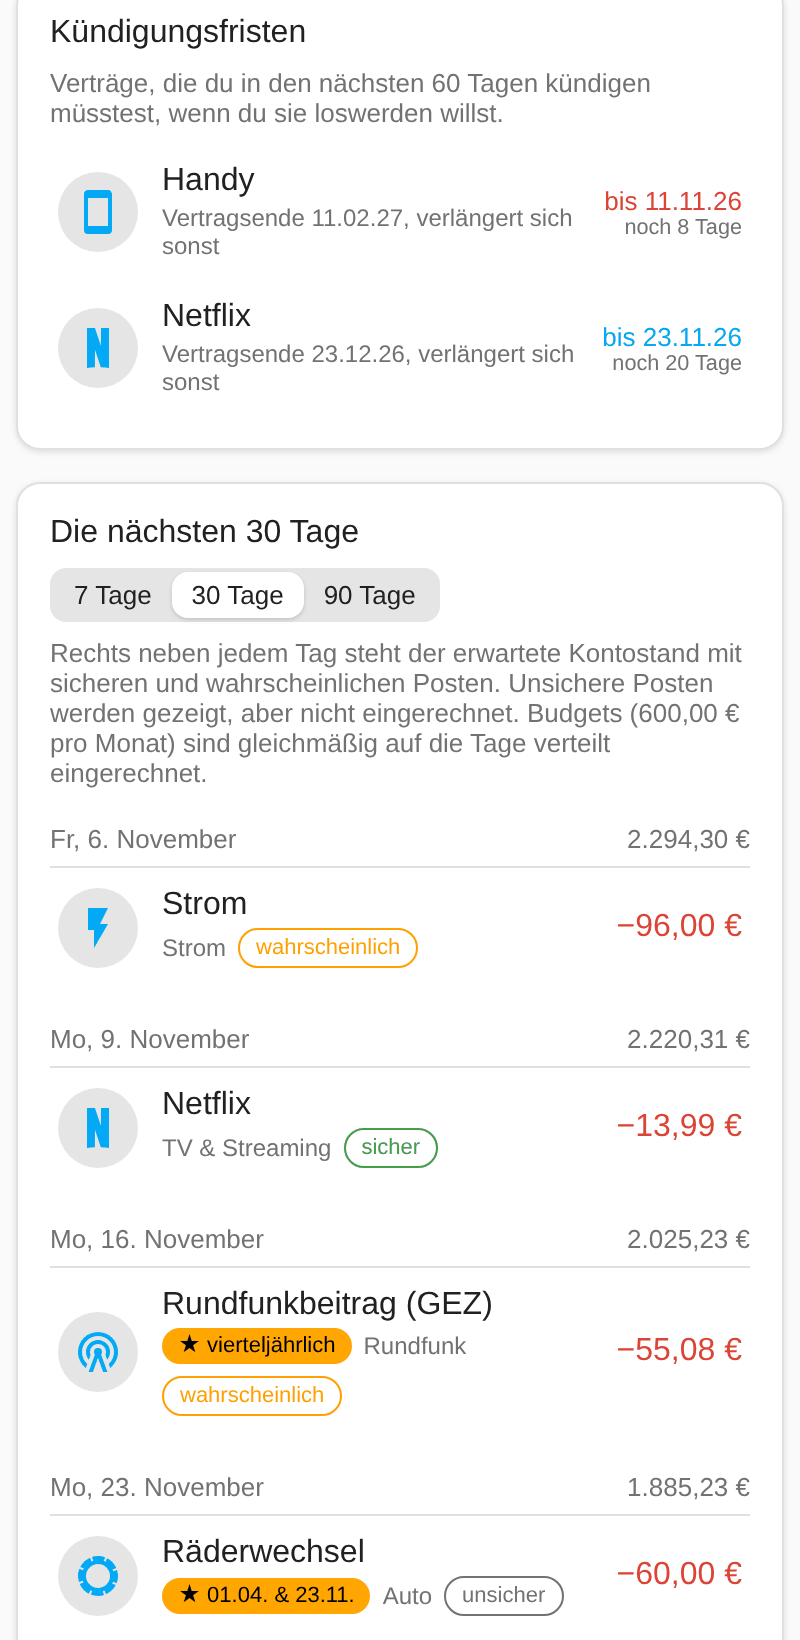
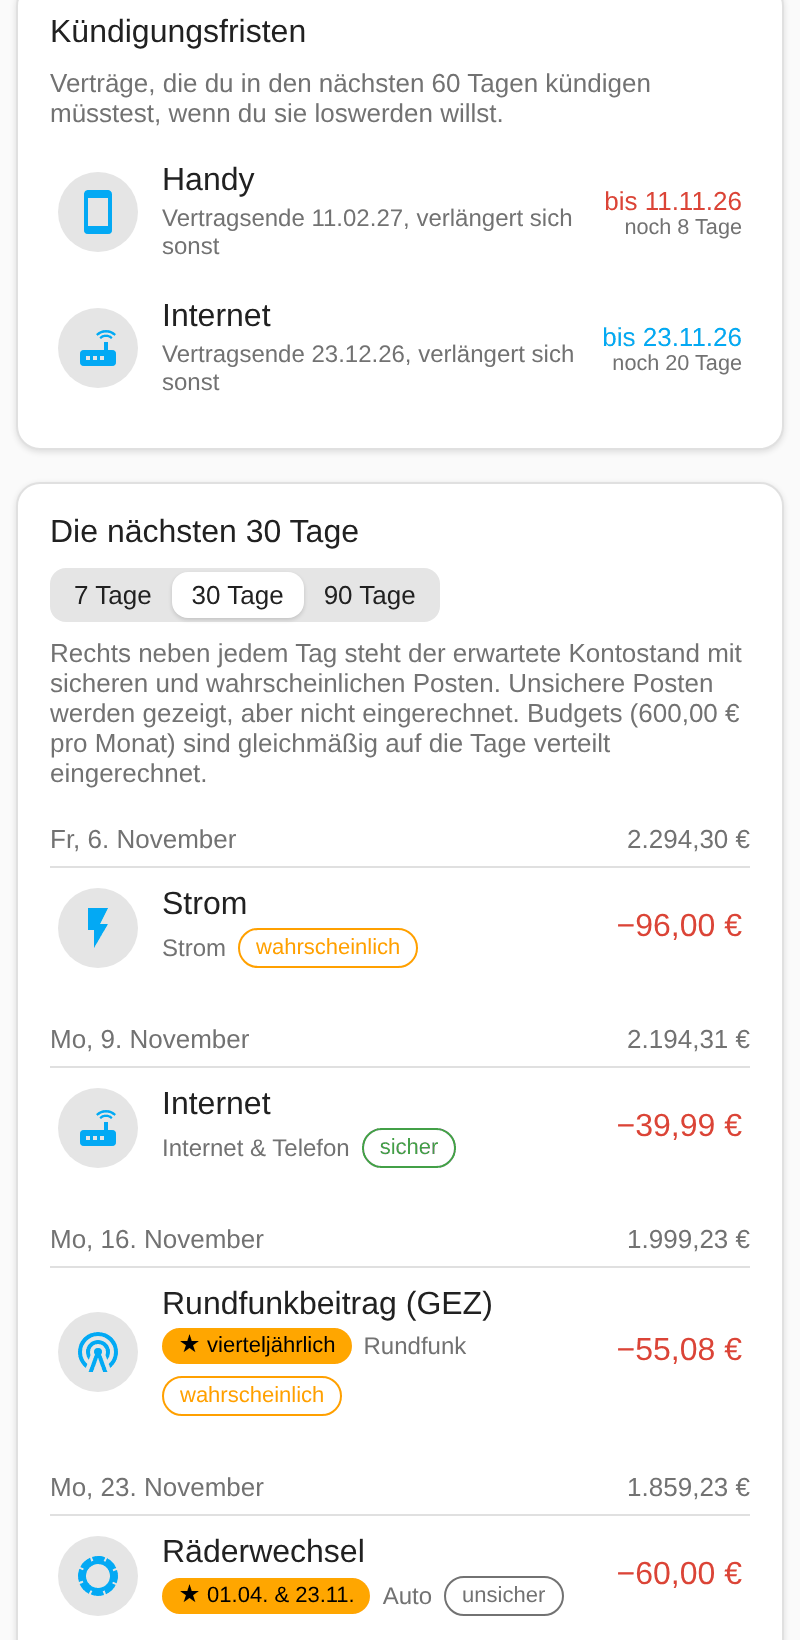
Anleitung: Internet statt Netflix als Beispiel, Gehalt 2.700 € (#17)
Screenshots neu erstellt, Markennamen aus den Beispielen entfernt.

Claude-Session: https://claude.ai/code/session_01TQxBNxp7GSYrGRsbUUGUXa

diff --git a/custom_components/haushaltsbuch/const.py b/custom_components/haushaltsbuch/const.py
@@ -2,7 +2,7 @@
 from __future__ import annotations
 
 DOMAIN = "haushaltsbuch"
-VERSION = "0.5.4"
+VERSION = "0.5.5"
 
 STORAGE_KEY = f"{DOMAIN}.data"
 STORAGE_VERSION = 1

diff --git a/README.md b/README.md
@@ -27,7 +27,7 @@ Alle Posten werden von Hand erfasst. Es gibt keine Bankanbindung, und die Daten 
 - **Wochenenden und Bankfeiertage**: Buchungen rutschen auf den nächsten Bankarbeitstag, das Gehalt auf den vorherigen (pro Posten einstellbar)
 - **Monatsübersicht** mit Einnahmen, Ausgaben und Saldo für 12 Monate. **Sonderposten** (alles, was nicht jeden Monat kommt, z.B. GEZ, Versicherungen, Bonus) sind pro Monat und in Zeitleiste und Kalender gelb markiert. Darunter die **Ausgaben nach Kategorie** für die nächsten 12 Monate.
 - **Suche** in den Posten und **alle offenen Buchungen auf einmal bestätigen**
-- **Vorlagen** für typische Posten (GEZ, Strom, Internet, Handy, Versicherungen, Kfz-Steuer, Netflix, Prime, Disney+, Gehalt, Tanken, Räderwechsel …)
+- **Vorlagen** für typische Posten (GEZ, Strom, Internet, Handy, Versicherungen, Kfz-Steuer, Streaming-Abos, Gehalt, Tanken, Räderwechsel …)
 - **Export und Import** der eigenen Posten als JSON-Datei, z.B. als Sicherung oder zum Umzug auf eine andere HA-Instanz. Beim Import wählbar: hinzufügen (Doppelte werden übersprungen) oder ersetzen
 
 ## Installation über HACS
@@ -42,7 +42,7 @@ Alle Posten werden von Hand erfasst. Es gibt keine Bankanbindung, und die Daten 
 
 ### Posten und Buchungen
 
-Ein **Posten** ist die Regel, z.B. „Netflix, 13,99 €, monatlich ab dem 5.“. Aus jedem Posten rechnet das Haushaltsbuch die einzelnen **Buchungen** aus, also jede einzelne Abbuchung oder Einnahme an ihrem Tag. Du pflegst nur die Posten. Die Buchungen entstehen von selbst, und du bestätigst sie, wenn sie auf dem Konto angekommen sind.
+Ein **Posten** ist die Regel, z.B. „Internet, 39,99 €, monatlich ab dem 5.“. Aus jedem Posten rechnet das Haushaltsbuch die einzelnen **Buchungen** aus, also jede einzelne Abbuchung oder Einnahme an ihrem Tag. Du pflegst nur die Posten. Die Buchungen entstehen von selbst, und du bestätigst sie, wenn sie auf dem Konto angekommen sind.
 
 Was du am **Posten** änderst (Betrag, Turnus, Kategorie), gilt für alle Buchungen. Was du an einer **Buchung** änderst (gebucht, ausgefallen, fester Termin), gilt nur für diese eine.
 
@@ -94,7 +94,7 @@ Tab **Posten** → **+ Neuer Posten**.
 
 Tab **Posten** → **+ Neuer Posten**.
 
-1. Oben eine **Vorlage** antippen (z.B. GEZ, Gehalt, Netflix). Sie füllt Name, Kategorie, Symbol und Turnus aus.
+1. Oben eine **Vorlage** antippen (z.B. GEZ, Gehalt, Internet). Sie füllt Name, Kategorie, Symbol und Turnus aus.
 2. **Betrag** und **Erste Fälligkeit** (die nächste Abbuchung) eintragen.
 3. Den **Turnus** prüfen:
    - *monatlich, vierteljährlich, halbjährlich, jährlich, alle X Monate*: fester Kalendertag, z.B. GEZ am 15. jedes dritten Monats
@@ -107,7 +107,7 @@ Tab **Posten** → **+ Neuer Posten**.
 
 Bei der **Kategorie** öffnet sich beim Antippen eine Liste der vorhandenen Kategorien, Tippen filtert sie. Eine neue Kategorie gibst du einfach ein.
 
-Beim **Symbol** einfach lostippen: Eine Liste schlägt passende MDI-Symbole vor (englische Namen wie `netflix`, `car`, `home`, aber auch gängige deutsche Wörter wie „Auto“, „Strom“, „Geld“ oder „Versicherung“). Antippen oder Enter übernimmt den ersten Vorschlag. Alternativ geht ein Emoji. Die Vorschau neben dem Feld zeigt sofort, wie es aussieht.
+Beim **Symbol** einfach lostippen: Eine Liste schlägt passende MDI-Symbole vor (englische Namen wie `router`, `car`, `home`, aber auch gängige deutsche Wörter wie „Auto“, „Strom“, „Geld“ oder „Versicherung“). Antippen oder Enter übernimmt den ersten Vorschlag. Alternativ geht ein Emoji. Die Vorschau neben dem Feld zeigt sofort, wie es aussieht.
 
 **Was in welches Feld gehört:**
 
